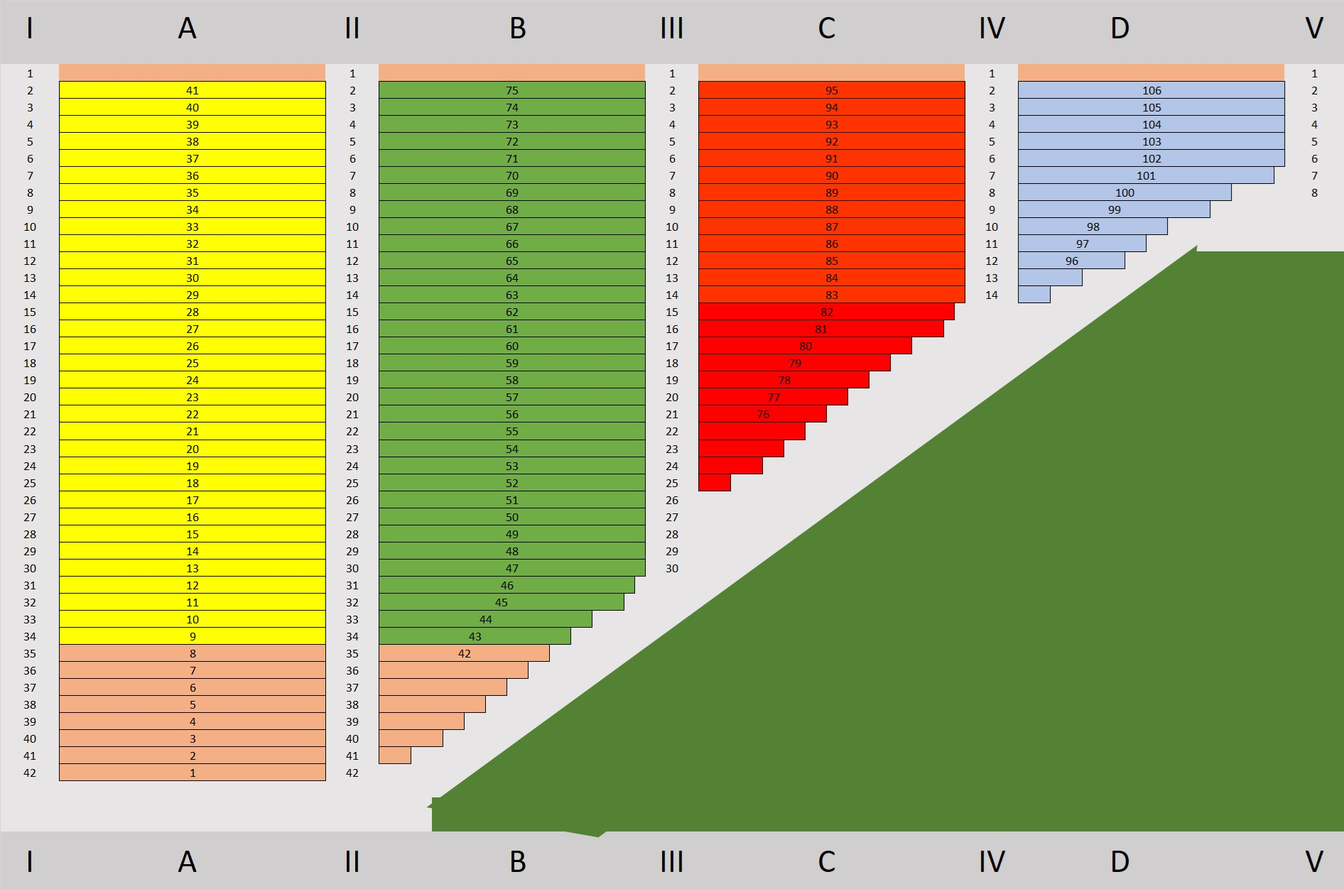
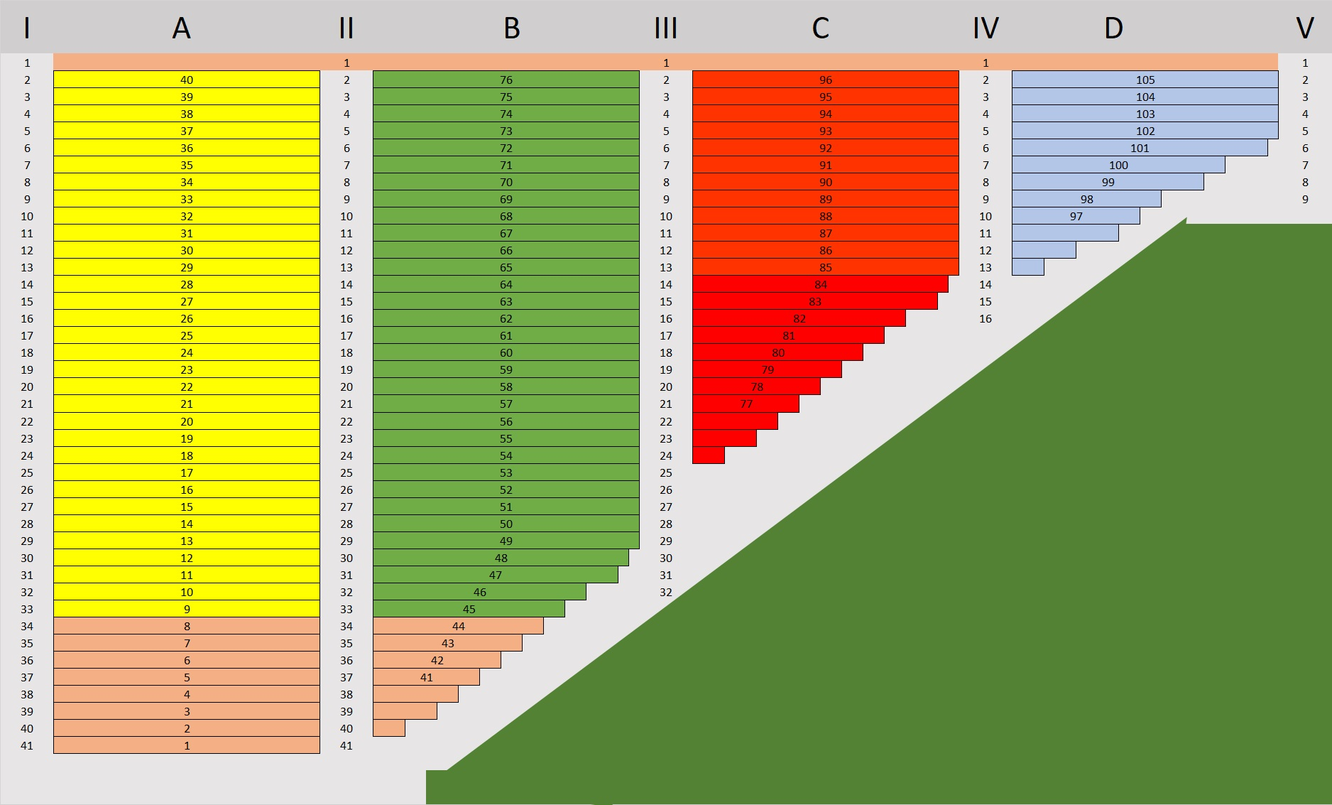
Update met Voedselbos toevoeging

diff --git a/kaartshow Voedselbos.html b/kaartshow Voedselbos.html
@@ -1,0 +1,345 @@
+<!DOCTYPE html>
+<html lang="en">
+<head>
+    <meta charset="UTF-8">
+    <meta name="viewport" content="width=device-width, initial-scale=1.0">
+    <title>Voedselbos Noaberboeren</title>
+    <style>
+        /* Stijlen voor de kaartcontainer */
+        .kaart-container {
+            position: relative;
+            width: 1000px; /* Pas aan naar wens */
+            height: 800px; /* Pas aan naar wens */
+            margin: 0 auto;
+            border: 1px solid #ccc;
+            background-image: url('Voedselbos 240218.jpg'); /* URL naar de geconverteerde afbeelding */
+            background-size: cover;
+            background-repeat: no-repeat;
+        }
+        
+        /* Stijlen voor markeringspunten */
+        .marker {
+            position: absolute;
+            width: 13px;
+            height: 13px;
+            background-color: #000; /* standaardkleur */
+            border-radius: 50%; /* Maakt de marker een cirkel */
+            cursor: pointer; /* Wijzig de cursor naar een handje om aan te geven dat het punt klikbaar is */
+            display: flex;
+            justify-content: center;
+            align-items: center;
+            font-size: 6px;
+            color: white; /* kleur van de tekst */
+		text-decoration: none; /* geen onderstreping van de link */
+        }
+
+.marker a {
+    color: white; /* kleur van de tekst */
+    text-decoration: none; /* geen onderstreping van de link */
+}
+
+        .marker.red {
+    background-color: red;
+	color: white; /* kleur van de tekst */
+    text-decoration: none; /* geen onderstreping van de link */
+}
+
+	.marker.blue {
+    background-color: blue;
+	color: white; /* kleur van de tekst */
+    text-decoration: none; /* geen onderstreping van de link */
+}
+	.marker.green {
+    background-color: green;
+	color: white; /* kleur van de tekst */
+    text-decoration: none; /* geen onderstreping van de link */
+}
+
+
+
+        /* Stijlen voor tooltips */
+        .tooltip {
+            position: absolute;
+            background-color: rgba(0, 0, 0, 0.7);
+            color: white;
+            padding: 5px;
+            border-radius: 3px;
+            pointer-events: none; /* Voorkomt dat de tooltip zelf wordt aangeklikt */
+            opacity: 0; /* Verberg de tooltip standaard */
+            transition: opacity 0.3s ease; /* Voeg een vloeiende overgang toe bij het tonen/verbergen van de tooltip */
+            z-index: 1000; /* Zorg ervoor dat de tooltip bovenaan ligt */
+        }
+        
+        /* Stijl voor de tooltippijl */
+        .tooltip::before {
+            content: "";
+            position: absolute;
+            border-style: solid;
+            border-width: 5px 5px 0 5px;
+            border-color: rgba(0, 0, 0, 0.7) transparent transparent transparent;
+            left: 50%;
+            bottom: -5px;
+            transform: translateX(-50%); /* Plaats de pijl in het midden van de tooltip */
+        }
+
+        /* Stijlen voor de link binnen de tooltip */
+        .tooltip-link {
+            color: white;
+            text-decoration: underline;
+            pointer-events: auto; /* Zorg ervoor dat de link klikbaar is */
+            display: block; /* Zorgt ervoor dat de link de hele breedte van de tooltip inneemt */
+            margin-top: 5px; /* Voegt ruimte toe tussen de tekst en de link */
+        }
+/* Stijl voor de knoppen */
+.button {
+  background-color: #9F4522; /* Achtergrondkleur van de knop lichtbruin */
+  color: white; /* Tekstkleur van de knop */
+  padding: 10px 20px; /* Ruimte rond de tekst in de knop */
+  border: none; /* Geen rand om de knop */
+  border-radius: 5px; /* Afgeronde hoeken voor een betere uitstraling */
+  cursor: pointer; /* Cursor veranderen in een handje bij hover */
+	margin-bottom: 20px; /* Ondermarge om de knoppen te verplaatsen */
+}
+
+/* Stijl voor de knoppen bij hover */
+.button:hover {
+  background-color: #804a34; /* Achtergrondkleur van de knop bij hover donkerder bruin */
+}
+
+
+
+    </style>
+</head>
+<body>
+
+    <!-- Kaartcontainer -->
+    <div class="kaart-container">
+
+<!-- Knoppen bovenaan de pagina -->
+<button class="button"  onclick="window.location.href = 'index.html';">Aaftink</button>
+<button class="button"  onclick="window.location.href = 'kaartshow Leem.html';">Leem</button>
+<button class="button"  onclick="window.location.href = 'kaartshow Es.html';">Es</button>
+<button class="button"  onclick="window.location.href = 'kaartshow Fruit.html';">Fruit</button>
+<button class="button"  onclick="window.location.href = 'https://noaberboeren.nl/';">Noaberboeren Home</button>
+
+
+
+
+
+
+
+
+<!-- VOEDSELBOS -->
+       
+         <!-- Markeringspunt 	A1	 -->	<div class="marker" style="left: 	30.5000%	; top: 	18.0000%	;" data-tooltip="	Cornus Mas, Gele Kornoelje	" data-link="	boomlink1.htm	">	A1	  </div>
+        <!-- Markeringspunt 	A2	 -->	<div class="marker" style="left: 	30.3714%	; top: 	20.3929%	;" data-tooltip="	Cornus Mas, Gele Kornoelje	" data-link="	A Cornus Mas Gele Kornoelje.htm	">	A2	  </div>
+        <!-- Markeringspunt 	A3	 -->	<div class="marker" style="left: 	30.2429%	; top: 	22.7857%	;" data-tooltip="	Cornus Mas, Gele Kornoelje	" data-link="	A Cornus Mas Gele Kornoelje.htm	">	A3	  </div>
+        <!-- Markeringspunt 	A4	 -->	<div class="marker" style="left: 	30.1143%	; top: 	25.1786%	;" data-tooltip="	Cornus Mas, Gele Kornoelje	" data-link="	A Cornus Mas Gele Kornoelje.htm	">	A4	  </div>
+        <!-- Markeringspunt 	A5	 -->	<div class="marker" style="left: 	29.9857%	; top: 	27.5714%	;" data-tooltip="	Cornus Mas, Gele Kornoelje	" data-link="	A Cornus Mas Gele Kornoelje.htm	">	A5	  </div>
+        <!-- Markeringspunt 	A6	 -->	<div class="marker" style="left: 	29.8571%	; top: 	29.9643%	;" data-tooltip="	Cornus Mas, Gele Kornoelje	" data-link="	A Cornus Mas Gele Kornoelje.htm	">	A6	  </div>
+        <!-- Markeringspunt 	A7	 -->	<div class="marker" style="left: 	29.7286%	; top: 	32.3571%	;" data-tooltip="	Cornus Mas, Gele Kornoelje	" data-link="	A Cornus Mas Gele Kornoelje.htm	">	A7	  </div>
+        <!-- Markeringspunt 	A8	 -->	<div class="marker" style="left: 	29.6000%	; top: 	34.7500%	;" data-tooltip="	Cornus Mas, Gele Kornoelje	" data-link="	A Cornus Mas Gele Kornoelje.htm	">	A8	  </div>
+        <!-- Markeringspunt 	A9	 -->	<div class="marker" style="left: 	29.4714%	; top: 	37.1429%	;" data-tooltip="	Cornus Mas, Gele Kornoelje	" data-link="	A Cornus Mas Gele Kornoelje.htm	">	A9	  </div>
+        <!-- Markeringspunt 	A10	 -->	<div class="marker" style="left: 	29.3429%	; top: 	39.5357%	;" data-tooltip="	Cornus Mas, Gele Kornoelje	" data-link="	A Cornus Mas Gele Kornoelje.htm	">	A10	  </div>
+        <!-- Markeringspunt 	A11	 -->	<div class="marker" style="left: 	29.2143%	; top: 	41.9286%	;" data-tooltip="	Cornus Mas, Gele Kornoelje	" data-link="	A Cornus Mas Gele Kornoelje.htm	">	A11	  </div>
+        <!-- Markeringspunt 	A12	 -->	<div class="marker" style="left: 	29.0857%	; top: 	44.3214%	;" data-tooltip="	Cornus Mas, Gele Kornoelje	" data-link="	A Cornus Mas Gele Kornoelje.htm	">	A12	  </div>
+        <!-- Markeringspunt 	A13	 -->	<div class="marker" style="left: 	28.9571%	; top: 	46.7143%	;" data-tooltip="	Cornus Mas, Gele Kornoelje	" data-link="	A Cornus Mas Gele Kornoelje.htm	">	A13	  </div>
+        <!-- Markeringspunt 	A14	 -->	<div class="marker" style="left: 	28.8286%	; top: 	49.1071%	;" data-tooltip="	Cornus Mas, Gele Kornoelje	" data-link="	A Cornus Mas Gele Kornoelje.htm	">	A14	  </div>
+        <!-- Markeringspunt 	A15	 -->	<div class="marker" style="left: 	28.7000%	; top: 	51.5000%	;" data-tooltip="	Cornus Mas, Gele Kornoelje	" data-link="	A Cornus Mas Gele Kornoelje.htm	">	A15	  </div>
+        <!-- Markeringspunt 	B16	 -->	<div class="marker" style="left: 	33.0000%	; top: 	39.0000%	;" data-tooltip="	Prunus Armeniaca, Abrikozenboom Tros Oranje	" data-link="	B Prunus Armeniaca Abrikozenboom Tros Oranje.htm	">	B16	  </div>
+        <!-- Markeringspunt 	B17	 -->	<div class="marker" style="left: 	32.0000%	; top: 	50.0000%	;" data-tooltip="	Prunus Armeniaca, Abrikozenboom Tros Oranje	" data-link="	B Prunus Armeniaca Abrikozenboom Tros Oranje.htm	">	B17	  </div>
+        <!-- Markeringspunt 	C18	 -->	<div class="marker" style="left: 	32.0000%	; top: 	19.0000%	;" data-tooltip="	Toona Sinensis, Uiensoepboom	" data-link="	C Toona Sinensis Uiensoepboom.htm	">	C18	  </div>
+        <!-- Markeringspunt 	C19	 -->	<div class="marker" style="left: 	32.5000%	; top: 	26.0000%	;" data-tooltip="	Toona Sinensis, Uiensoepboom	" data-link="	C Toona Sinensis Uiensoepboom.htm	">	C19	  </div>
+        <!-- Markeringspunt 	D20	 -->	<div class="marker" style="left: 	34.0000%	; top: 	19.0000%	;" data-tooltip="	Sambucus Nigra, Vlier	" data-link="	D Sambucus Nigra Vlier.htm	">	D20	  </div>
+        <!-- Markeringspunt 	D21	 -->	<div class="marker" style="left: 	40.0000%	; top: 	18.0000%	;" data-tooltip="	Sambucus Nigra, Vlier	" data-link="	D Sambucus Nigra Vlier.htm	">	D21	  </div>
+        <!-- Markeringspunt 	D22	 -->	<div class="marker" style="left: 	48.0000%	; top: 	18.0000%	;" data-tooltip="	Sambucus Nigra, Vlier	" data-link="	D Sambucus Nigra Vlier.htm	">	D22	  </div>
+        <!-- Markeringspunt 	D23	 -->	<div class="marker" style="left: 	34.0000%	; top: 	30.0000%	;" data-tooltip="	Sambucus Nigra, Vlier	" data-link="	D Sambucus Nigra Vlier.htm	">	D23	  </div>
+        <!-- Markeringspunt 	D24	 -->	<div class="marker" style="left: 	34.0000%	; top: 	49.0000%	;" data-tooltip="	Sambucus Nigra, Vlier	" data-link="	D Sambucus Nigra Vlier.htm	">	D24	  </div>
+        <!-- Markeringspunt 	E25	 -->	<div class="marker" style="left: 	33.0000%	; top: 	16.0000%	;" data-tooltip="	Rubus Idaeus, Framboos	" data-link="	E Rubus Idaeus Framboos.htm	">	E25	  </div>
+        <!-- Markeringspunt 	E26	 -->	<div class="marker" style="left: 	34.3026%	; top: 	15.9035%	;" data-tooltip="	Rubus Idaeus, Framboos	" data-link="	E Rubus Idaeus Framboos.htm	">	E26	  </div>
+        <!-- Markeringspunt 	E27	 -->	<div class="marker" style="left: 	35.6053%	; top: 	15.8070%	;" data-tooltip="	Rubus Idaeus, Framboos	" data-link="	E Rubus Idaeus Framboos.htm	">	E27	  </div>
+        <!-- Markeringspunt 	E28	 -->	<div class="marker" style="left: 	36.9079%	; top: 	15.7105%	;" data-tooltip="	Rubus Idaeus, Framboos	" data-link="	E Rubus Idaeus Framboos.htm	">	E28	  </div>
+        <!-- Markeringspunt 	E29	 -->	<div class="marker" style="left: 	38.2105%	; top: 	15.6140%	;" data-tooltip="	Rubus Idaeus, Framboos	" data-link="	E Rubus Idaeus Framboos.htm	">	E29	  </div>
+        <!-- Markeringspunt 	E30	 -->	<div class="marker" style="left: 	39.5132%	; top: 	15.5175%	;" data-tooltip="	Rubus Idaeus, Framboos	" data-link="	E Rubus Idaeus Framboos.htm	">	E30	  </div>
+        <!-- Markeringspunt 	E31	 -->	<div class="marker" style="left: 	40.8158%	; top: 	15.4211%	;" data-tooltip="	Rubus Idaeus, Framboos	" data-link="	E Rubus Idaeus Framboos.htm	">	E31	  </div>
+        <!-- Markeringspunt 	E32	 -->	<div class="marker" style="left: 	42.1184%	; top: 	15.3246%	;" data-tooltip="	Rubus Idaeus, Framboos	" data-link="	E Rubus Idaeus Framboos.htm	">	E32	  </div>
+        <!-- Markeringspunt 	E33	 -->	<div class="marker" style="left: 	43.4211%	; top: 	15.2281%	;" data-tooltip="	Rubus Idaeus, Framboos	" data-link="	E Rubus Idaeus Framboos.htm	">	E33	  </div>
+        <!-- Markeringspunt 	E34	 -->	<div class="marker" style="left: 	44.7237%	; top: 	15.1316%	;" data-tooltip="	Rubus Idaeus, Framboos	" data-link="	E Rubus Idaeus Framboos.htm	">	E34	  </div>
+        <!-- Markeringspunt 	E35	 -->	<div class="marker" style="left: 	46.0263%	; top: 	15.0351%	;" data-tooltip="	Rubus Idaeus, Framboos	" data-link="	E Rubus Idaeus Framboos.htm	">	E35	  </div>
+        <!-- Markeringspunt 	E36	 -->	<div class="marker" style="left: 	47.3289%	; top: 	14.9386%	;" data-tooltip="	Rubus Idaeus, Framboos	" data-link="	E Rubus Idaeus Framboos.htm	">	E36	  </div>
+        <!-- Markeringspunt 	E37	 -->	<div class="marker" style="left: 	48.6316%	; top: 	14.8421%	;" data-tooltip="	Rubus Idaeus, Framboos	" data-link="	E Rubus Idaeus Framboos.htm	">	E37	  </div>
+        <!-- Markeringspunt 	E38	 -->	<div class="marker" style="left: 	49.9342%	; top: 	14.7456%	;" data-tooltip="	Rubus Idaeus, Framboos	" data-link="	E Rubus Idaeus Framboos.htm	">	E38	  </div>
+        <!-- Markeringspunt 	E39	 -->	<div class="marker" style="left: 	51.2368%	; top: 	14.6491%	;" data-tooltip="	Rubus Idaeus, Framboos	" data-link="	E Rubus Idaeus Framboos.htm	">	E39	  </div>
+        <!-- Markeringspunt 	E40	 -->	<div class="marker" style="left: 	52.5395%	; top: 	14.5526%	;" data-tooltip="	Rubus Idaeus, Framboos	" data-link="	E Rubus Idaeus Framboos.htm	">	E40	  </div>
+        <!-- Markeringspunt 	E41	 -->	<div class="marker" style="left: 	53.8421%	; top: 	14.4561%	;" data-tooltip="	Rubus Idaeus, Framboos	" data-link="	E Rubus Idaeus Framboos.htm	">	E41	  </div>
+        <!-- Markeringspunt 	E42	 -->	<div class="marker" style="left: 	55.1447%	; top: 	14.3596%	;" data-tooltip="	Rubus Idaeus, Framboos	" data-link="	E Rubus Idaeus Framboos.htm	">	E42	  </div>
+        <!-- Markeringspunt 	E43	 -->	<div class="marker" style="left: 	56.4474%	; top: 	14.2632%	;" data-tooltip="	Rubus Idaeus, Framboos	" data-link="	E Rubus Idaeus Framboos.htm	">	E43	  </div>
+        <!-- Markeringspunt 	E44	 -->	<div class="marker" style="left: 	57.7500%	; top: 	14.1667%	;" data-tooltip="	Rubus Idaeus, Framboos	" data-link="	E Rubus Idaeus Framboos.htm	">	E44	  </div>
+        <!-- Markeringspunt 	E45	 -->	<div class="marker" style="left: 	57.0000%	; top: 	25.5000%	;" data-tooltip="	Rubus Idaeus, Framboos	" data-link="	E Rubus Idaeus Framboos.htm	">	E45	  </div>
+        <!-- Markeringspunt 	E46	 -->	<div class="marker" style="left: 	58.0000%	; top: 	25.0000%	;" data-tooltip="	Rubus Idaeus, Framboos	" data-link="	E Rubus Idaeus Framboos.htm	">	E46	  </div>
+        <!-- Markeringspunt 	E47	 -->	<div class="marker" style="left: 	59.0000%	; top: 	25.5000%	;" data-tooltip="	Rubus Idaeus, Framboos	" data-link="	E Rubus Idaeus Framboos.htm	">	E47	  </div>
+        <!-- Markeringspunt 	E48	 -->	<div class="marker" style="left: 	58.5000%	; top: 	26.5000%	;" data-tooltip="	Rubus Idaeus, Framboos	" data-link="	E Rubus Idaeus Framboos.htm	">	E48	  </div>
+        <!-- Markeringspunt 	E49	 -->	<div class="marker" style="left: 	57.5000%	; top: 	27.0000%	;" data-tooltip="	Rubus Idaeus, Framboos	" data-link="	E Rubus Idaeus Framboos.htm	">	E49	  </div>
+        <!-- Markeringspunt 	F50	 -->	<div class="marker" style="left: 	10.0000%	; top: 	29.3929%	;" data-tooltip="	Corylus, Hazelnoot	" data-link="	F Corylus Hazelnoot.htm	">	F50	  </div>
+        <!-- Markeringspunt 	F51	 -->	<div class="marker" style="left: 	36.0000%	; top: 	51.5000%	;" data-tooltip="	Corylus, Hazelnoot	" data-link="	F Corylus Hazelnoot.htm	">	F51	  </div>
+        <!-- Markeringspunt 	F52	 -->	<div class="marker" style="left: 	38.0000%	; top: 	31.0000%	;" data-tooltip="	Corylus, Hazelnoot	" data-link="	F Corylus Hazelnoot.htm	">	F52	  </div>
+        <!-- Markeringspunt 	F53	 -->	<div class="marker" style="left: 	40.0000%	; top: 	46.0000%	;" data-tooltip="	Corylus, Hazelnoot	" data-link="	F Corylus Hazelnoot.htm	">	F53	  </div>
+        <!-- Markeringspunt 	F54	 -->	<div class="marker" style="left: 	52.0000%	; top: 	49.0000%	;" data-tooltip="	Corylus, Hazelnoot	" data-link="	F Corylus Hazelnoot.htm	">	F54	  </div>
+        <!-- Markeringspunt 	F55	 -->	<div class="marker" style="left: 	57.0000%	; top: 	40.0000%	;" data-tooltip="	Corylus, Hazelnoot	" data-link="	F Corylus Hazelnoot.htm	">	F55	  </div>
+        <!-- Markeringspunt 	F56	 -->	<div class="marker" style="left: 	58.0000%	; top: 	49.0000%	;" data-tooltip="	Corylus, Hazelnoot	" data-link="	F Corylus Hazelnoot.htm	">	F56	  </div>
+        <!-- Markeringspunt 	F57	 -->	<div class="marker" style="left: 	72.0000%	; top: 	40.0000%	;" data-tooltip="	Corylus, Hazelnoot	" data-link="	F Corylus Hazelnoot.htm	">	F57	  </div>
+        <!-- Markeringspunt 	F58	 -->	<div class="marker" style="left: 	76.0000%	; top: 	29.0000%	;" data-tooltip="	Corylus, Hazelnoot	" data-link="	F Corylus Hazelnoot.htm	">	F58	  </div>
+        <!-- Markeringspunt 	G59	 -->	<div class="marker" style="left: 	36.5000%	; top: 	20.5000%	;" data-tooltip="	Lonicera  Caerulea, Honingbes	" data-link="	G Lonicera  Caerulea Honingbes.htm	">	G59	  </div>
+        <!-- Markeringspunt 	G60	 -->	<div class="marker" style="left: 	37.5000%	; top: 	20.0000%	;" data-tooltip="	Lonicera  Caerulea, Honingbes	" data-link="	G Lonicera  Caerulea Honingbes.htm	">	G60	  </div>
+        <!-- Markeringspunt 	G61	 -->	<div class="marker" style="left: 	38.0000%	; top: 	21.0000%	;" data-tooltip="	Lonicera  Caerulea, Honingbes	" data-link="	G Lonicera  Caerulea Honingbes.htm	">	G61	  </div>
+        <!-- Markeringspunt 	G62	 -->	<div class="marker" style="left: 	37.5000%	; top: 	22.0000%	;" data-tooltip="	Lonicera  Caerulea, Honingbes	" data-link="	G Lonicera  Caerulea Honingbes.htm	">	G62	  </div>
+        <!-- Markeringspunt 	G63	 -->	<div class="marker" style="left: 	36.5000%	; top: 	21.5000%	;" data-tooltip="	Lonicera  Caerulea, Honingbes	" data-link="	G Lonicera  Caerulea Honingbes.htm	">	G63	  </div>
+        <!-- Markeringspunt 	G64	 -->	<div class="marker" style="left: 	71.0000%	; top: 	50.5000%	;" data-tooltip="	Lonicera  Caerulea, Honingbes	" data-link="	G Lonicera  Caerulea Honingbes.htm	">	G64	  </div>
+        <!-- Markeringspunt 	G65	 -->	<div class="marker" style="left: 	73.0000%	; top: 	50.5000%	;" data-tooltip="	Lonicera  Caerulea, Honingbes	" data-link="	G Lonicera  Caerulea Honingbes.htm	">	G65	  </div>
+        <!-- Markeringspunt 	G66	 -->	<div class="marker" style="left: 	72.0000%	; top: 	51.8000%	;" data-tooltip="	Lonicera  Caerulea, Honingbes	" data-link="	G Lonicera  Caerulea Honingbes.htm	">	G66	  </div>
+        <!-- Markeringspunt 	H67	 -->	<div class="marker" style="left: 	35.6000%	; top: 	18.0000%	;" data-tooltip="	Juglans Regia, Walnoot	" data-link="	H Juglans Regia Walnoot.htm	">	H67	  </div>
+        <!-- Markeringspunt 	H68	 -->	<div class="marker" style="left: 	44.0000%	; top: 	39.0000%	;" data-tooltip="	Juglans Regia, Walnoot	" data-link="	H Juglans Regia Walnoot.htm	">	H68	  </div>
+        <!-- Markeringspunt 	H69	 -->	<div class="marker" style="left: 	61.0000%	; top: 	25.0000%	;" data-tooltip="	Juglans Regia, Walnoot	" data-link="	H Juglans Regia Walnoot.htm	">	H69	  </div>
+        <!-- Markeringspunt 	H70	 -->	<div class="marker" style="left: 	68.5000%	; top: 	49.0000%	;" data-tooltip="	Juglans Regia, Walnoot	" data-link="	H Juglans Regia Walnoot.htm	">	H70	  </div>
+        <!-- Markeringspunt 	H71	 -->	<div class="marker" style="left: 	78.0000%	; top: 	19.0000%	;" data-tooltip="	Juglans Regia, Walnoot	" data-link="	H Juglans Regia Walnoot.htm	">	H71	  </div>
+        <!-- Markeringspunt 	I72	 -->	<div class="marker" style="left: 	42.2000%	; top: 	18.0000%	;" data-tooltip="	Amelanchier, Krentenboom	" data-link="	I Amelanchier Krentenboom.htm	">	I72	  </div>
+        <!-- Markeringspunt 	I73	 -->	<div class="marker" style="left: 	51.0000%	; top: 	17.2000%	;" data-tooltip="	Amelanchier, Krentenboom	" data-link="	I Amelanchier Krentenboom.htm	">	I73	  </div>
+        <!-- Markeringspunt 	I74	 -->	<div class="marker" style="left: 	33.5000%	; top: 	23.0000%	;" data-tooltip="	Amelanchier, Krentenboom	" data-link="	I Amelanchier Krentenboom.htm	">	I74	  </div>
+        <!-- Markeringspunt 	I75	 -->	<div class="marker" style="left: 	39.2000%	; top: 	23.0000%	;" data-tooltip="	Amelanchier, Krentenboom	" data-link="	I Amelanchier Krentenboom.htm	">	I75	  </div>
+        <!-- Markeringspunt 	J76	 -->	<div class="marker" style="left: 	39.0000%	; top: 	53.9000%	;" data-tooltip="	Alnus glutinosa, Zwarte Els	" data-link="	J Alnus glutinosa Zwarte Els.htm	">	J76	  </div>
+        <!-- Markeringspunt 	J77	 -->	<div class="marker" style="left: 	43.0000%	; top: 	54.1750%	;" data-tooltip="	Alnus glutinosa, Zwarte Els	" data-link="	J Alnus glutinosa Zwarte Els.htm	">	J77	  </div>
+        <!-- Markeringspunt 	J78	 -->	<div class="marker" style="left: 	47.0000%	; top: 	54.4500%	;" data-tooltip="	Alnus glutinosa, Zwarte Els	" data-link="	J Alnus glutinosa Zwarte Els.htm	">	J78	  </div>
+        <!-- Markeringspunt 	J79	 -->	<div class="marker" style="left: 	51.0000%	; top: 	54.7250%	;" data-tooltip="	Alnus glutinosa, Zwarte Els	" data-link="	J Alnus glutinosa Zwarte Els.htm	">	J79	  </div>
+        <!-- Markeringspunt 	J80	 -->	<div class="marker" style="left: 	55.0000%	; top: 	55.0000%	;" data-tooltip="	Alnus glutinosa, Zwarte Els	" data-link="	J Alnus glutinosa Zwarte Els.htm	">	J80	  </div>
+        <!-- Markeringspunt 	K81	 -->	<div class="marker" style="left: 	48.0000%	; top: 	38.0000%	;" data-tooltip="	Rhamnus Frangula, Vuilboom	" data-link="	K Rhamnus Frangula Vuilboom.htm	">	K81	  </div>
+        <!-- Markeringspunt 	K82	 -->	<div class="marker" style="left: 	51.0000%	; top: 	33.0000%	;" data-tooltip="	Rhamnus Frangula, Vuilboom	" data-link="	K Rhamnus Frangula Vuilboom.htm	">	K82	  </div>
+        <!-- Markeringspunt 	K83	 -->	<div class="marker" style="left: 	51.0000%	; top: 	40.0000%	;" data-tooltip="	Rhamnus Frangula, Vuilboom	" data-link="	K Rhamnus Frangula Vuilboom.htm	">	K83	  </div>
+        <!-- Markeringspunt 	K84	 -->	<div class="marker" style="left: 	53.0000%	; top: 	23.0000%	;" data-tooltip="	Rhamnus Frangula, Vuilboom	" data-link="	K Rhamnus Frangula Vuilboom.htm	">	K84	  </div>
+        <!-- Markeringspunt 	K85	 -->	<div class="marker" style="left: 	55.0000%	; top: 	32.0000%	;" data-tooltip="	Rhamnus Frangula, Vuilboom	" data-link="	K Rhamnus Frangula Vuilboom.htm	">	K85	  </div>
+        <!-- Markeringspunt 	L86	 -->	<div class="marker" style="left: 	55.5000%	; top: 	35.5000%	;" data-tooltip="	Ficus Carica, Vijg	" data-link="	L Ficus Carica Vijg.htm	">	L86	  </div>
+        <!-- Markeringspunt 	L87	 -->	<div class="marker" style="left: 	55.0000%	; top: 	48.0000%	;" data-tooltip="	Ficus Carica, Vijg	" data-link="	L Ficus Carica Vijg.htm	">	L87	  </div>
+        <!-- Markeringspunt 	L88	 -->	<div class="marker" style="left: 	60.0000%	; top: 	41.3333%	;" data-tooltip="	Ficus Carica, Vijg	" data-link="	L Ficus Carica Vijg.htm	">	L88	  </div>
+        <!-- Markeringspunt 	L89	 -->	<div class="marker" style="left: 	65.0000%	; top: 	34.6667%	;" data-tooltip="	Ficus Carica, Vijg	" data-link="	L Ficus Carica Vijg.htm	">	L89	  </div>
+        <!-- Markeringspunt 	L90	 -->	<div class="marker" style="left: 	70.0000%	; top: 	28.0000%	;" data-tooltip="	Ficus Carica, Vijg	" data-link="	L Ficus Carica Vijg.htm	">	L90	  </div>
+        <!-- Markeringspunt 	M91	 -->	<div class="marker" style="left: 	60.0000%	; top: 	14.0000%	;" data-tooltip="	Morus Alba, Witte Moerbei	" data-link="	M Morus Alba Witte Moerbei.htm	">	M91	  </div>
+        <!-- Markeringspunt 	M92	 -->	<div class="marker" style="left: 	57.7500%	; top: 	16.0000%	;" data-tooltip="	Morus Alba, Witte Moerbei	" data-link="	M Morus Alba Witte Moerbei.htm	">	M92	  </div>
+        <!-- Markeringspunt 	M93	 -->	<div class="marker" style="left: 	36.0000%	; top: 	40.0000%	;" data-tooltip="	Morus Alba, Witte Moerbei	" data-link="	M Morus Alba Witte Moerbei.htm	">	M93	  </div>
+        <!-- Markeringspunt 	M94	 -->	<div class="marker" style="left: 	43.0000%	; top: 	33.0000%	;" data-tooltip="	Morus Alba, Witte Moerbei	" data-link="	M Morus Alba Witte Moerbei.htm	">	M94	  </div>
+        <!-- Markeringspunt 	M95	 -->	<div class="marker" style="left: 	60.0000%	; top: 	33.0000%	;" data-tooltip="	Morus Alba, Witte Moerbei	" data-link="	M Morus Alba Witte Moerbei.htm	">	M95	  </div>
+        <!-- Markeringspunt 	M96	 -->	<div class="marker" style="left: 	68.0000%	; top: 	38.0000%	;" data-tooltip="	Morus Alba, Witte Moerbei	" data-link="	M Morus Alba Witte Moerbei.htm	">	M96	  </div>
+        <!-- Markeringspunt 	M97	 -->	<div class="marker" style="left: 	10.0000%	; top: 	38.0000%	;" data-tooltip="	Morus Alba, Witte Moerbei	" data-link="	M Morus Alba Witte Moerbei.htm	">	M97	  </div>
+        <!-- Markeringspunt 	M98	 -->	<div class="marker" style="left: 	66.5000%	; top: 	25.0000%	;" data-tooltip="	Morus Alba, Witte Moerbei	" data-link="	M Morus Alba Witte Moerbei.htm	">	M98	  </div>
+        <!-- Markeringspunt 	M99	 -->	<div class="marker" style="left: 	78.0000%	; top: 	24.0000%	;" data-tooltip="	Morus Alba, Witte Moerbei	" data-link="	M Morus Alba Witte Moerbei.htm	">	M99	  </div>
+        <!-- Markeringspunt 	M100	 -->	<div class="marker" style="left: 	80.0000%	; top: 	30.0000%	;" data-tooltip="	Morus Alba, Witte Moerbei	" data-link="	M Morus Alba Witte Moerbei.htm	">	M100	  </div>
+        <!-- Markeringspunt 	N101	 -->	<div class="marker" style="left: 	62.0000%	; top: 	53.0000%	;" data-tooltip="	Mespilus Germanica, Mispel	" data-link="	N Mespilus Germanica Mispel.htm	">	N101	  </div>
+        <!-- Markeringspunt 	N102	 -->	<div class="marker" style="left: 	65.0000%	; top: 	53.0000%	;" data-tooltip="	Mespilus Germanica, Mispel	" data-link="	N Mespilus Germanica Mispel.htm	">	N102	  </div>
+        <!-- Markeringspunt 	N103	 -->	<div class="marker" style="left: 	75.0000%	; top: 	49.5000%	;" data-tooltip="	Mespilus Germanica, Mispel	" data-link="	N Mespilus Germanica Mispel.htm	">	N103	  </div>
+        <!-- Markeringspunt 	O104	 -->	<div class="marker" style="left: 	63.0000%	; top: 	13.7000%	;" data-tooltip="	Rosa rugosa, Japanse Bottelroos	" data-link="	O Rosa rugosa Japanse Bottelroos.htm	">	O104	  </div>
+        <!-- Markeringspunt 	O105	 -->	<div class="marker" style="left: 	65.2500%	; top: 	13.6250%	;" data-tooltip="	Rosa rugosa, Japanse Bottelroos	" data-link="	O Rosa rugosa Japanse Bottelroos.htm	">	O105	  </div>
+        <!-- Markeringspunt 	O106	 -->	<div class="marker" style="left: 	67.5000%	; top: 	13.5500%	;" data-tooltip="	Rosa rugosa, Japanse Bottelroos	" data-link="	O Rosa rugosa Japanse Bottelroos.htm	">	O106	  </div>
+        <!-- Markeringspunt 	O107	 -->	<div class="marker" style="left: 	69.7500%	; top: 	13.4750%	;" data-tooltip="	Rosa rugosa, Japanse Bottelroos	" data-link="	O Rosa rugosa Japanse Bottelroos.htm	">	O107	  </div>
+        <!-- Markeringspunt 	O108	 -->	<div class="marker" style="left: 	72.0000%	; top: 	13.4000%	;" data-tooltip="	Rosa rugosa, Japanse Bottelroos	" data-link="	O Rosa rugosa Japanse Bottelroos.htm	">	O108	  </div>
+        <!-- Markeringspunt 	P109	 -->	<div class="marker" style="left: 	42.0000%	; top: 	22.0000%	;" data-tooltip="	Prunus Spinoza, Sleedoorn	" data-link="	P Prunus Spinoza Sleedoorn.htm	">	P109	  </div>
+        <!-- Markeringspunt 	P110	 -->	<div class="marker" style="left: 	46.0000%	; top: 	24.0000%	;" data-tooltip="	Prunus Spinoza, Sleedoorn	" data-link="	P Prunus Spinoza Sleedoorn.htm	">	P110	  </div>
+        <!-- Markeringspunt 	P111	 -->	<div class="marker" style="left: 	50.0000%	; top: 	23.0000%	;" data-tooltip="	Prunus Spinoza, Sleedoorn	" data-link="	P Prunus Spinoza Sleedoorn.htm	">	P111	  </div>
+        <!-- Markeringspunt 	P112	 -->	<div class="marker" style="left: 	65.0000%	; top: 	18.0000%	;" data-tooltip="	Prunus Spinoza, Sleedoorn	" data-link="	P Prunus Spinoza Sleedoorn.htm	">	P112	  </div>
+        <!-- Markeringspunt 	P113	 -->	<div class="marker" style="left: 	68.0000%	; top: 	17.8000%	;" data-tooltip="	Prunus Spinoza, Sleedoorn	" data-link="	P Prunus Spinoza Sleedoorn.htm	">	P113	  </div>
+        <!-- Markeringspunt 	P114	 -->	<div class="marker" style="left: 	72.0000%	; top: 	17.7000%	;" data-tooltip="	Prunus Spinoza, Sleedoorn	" data-link="	P Prunus Spinoza Sleedoorn.htm	">	P114	  </div>
+        <!-- Markeringspunt 	P115	 -->	<div class="marker" style="left: 	70.0000%	; top: 	21.0000%	;" data-tooltip="	Prunus Spinoza, Sleedoorn	" data-link="	P Prunus Spinoza Sleedoorn.htm	">	P115	  </div>
+        <!-- Markeringspunt 	P116	 -->	<div class="marker" style="left: 	75.0000%	; top: 	25.0000%	;" data-tooltip="	Prunus Spinoza, Sleedoorn	" data-link="	P Prunus Spinoza Sleedoorn.htm	">	P116	  </div>
+        <!-- Markeringspunt 	Q117	 -->	<div class="marker" style="left: 	73.0000%	; top: 	30.0000%	;" data-tooltip="	Castanea Sativa, Tamme Kastanje	" data-link="	Q Castanea Sativa Tamme Kastanje.htm	">	Q117	  </div>
+        <!-- Markeringspunt 	Q118	 -->	<div class="marker" style="left: 	79.0000%	; top: 	40.0000%	;" data-tooltip="	Castanea Sativa, Tamme Kastanje	" data-link="	Q Castanea Sativa Tamme Kastanje.htm	">	Q118	  </div>
+        <!-- Markeringspunt 	R119	 -->	<div class="marker" style="left: 	75.9800%	; top: 	13.1750%	;" data-tooltip="	Chaenomeles japonica, Japanse Kwee	" data-link="	R Chaenomeles japonica Japanse Kwee.htm	">	R119	  </div>
+        <!-- Markeringspunt 	R120	 -->	<div class="marker" style="left: 	78.0440%	; top: 	13.0063%	;" data-tooltip="	Chaenomeles japonica, Japanse Kwee	" data-link="	R Chaenomeles japonica Japanse Kwee.htm	">	R120	  </div>
+        <!-- Markeringspunt 	R121	 -->	<div class="marker" style="left: 	80.1080%	; top: 	12.8375%	;" data-tooltip="	Chaenomeles japonica, Japanse Kwee	" data-link="	R Chaenomeles japonica Japanse Kwee.htm	">	R121	  </div>
+        <!-- Markeringspunt 	R122	 -->	<div class="marker" style="left: 	82.1720%	; top: 	12.6688%	;" data-tooltip="	Chaenomeles japonica, Japanse Kwee	" data-link="	R Chaenomeles japonica Japanse Kwee.htm	">	R122	  </div>
+        <!-- Markeringspunt 	R123	 -->	<div class="marker" style="left: 	84.2360%	; top: 	12.5000%	;" data-tooltip="	Chaenomeles japonica, Japanse Kwee	" data-link="	R Chaenomeles japonica Japanse Kwee.htm	">	R123	  </div>
+        <!-- Markeringspunt 	R124	 -->	<div class="marker" style="left: 	86.3000%	; top: 	13.5000%	;" data-tooltip="	Chaenomeles japonica, Japanse Kwee	" data-link="	R Chaenomeles japonica Japanse Kwee.htm	">	R124	  </div>
+        <!-- Markeringspunt 	R125	 -->	<div class="marker" style="left: 	84.2360%	; top: 	16.0000%	;" data-tooltip="	Chaenomeles japonica, Japanse Kwee	" data-link="	R Chaenomeles japonica Japanse Kwee.htm	">	R125	  </div>
+        <!-- Markeringspunt 	R126	 -->	<div class="marker" style="left: 	88.0000%	; top: 	16.5000%	;" data-tooltip="	Chaenomeles japonica, Japanse Kwee	" data-link="	R Chaenomeles japonica Japanse Kwee.htm	">	R126	  </div>
+        <!-- Markeringspunt 	R127	 -->	<div class="marker" style="left: 	88.0000%	; top: 	20.2500%	;" data-tooltip="	Chaenomeles japonica, Japanse Kwee	" data-link="	R Chaenomeles japonica Japanse Kwee.htm	">	R127	  </div>
+        <!-- Markeringspunt 	R128	 -->	<div class="marker" style="left: 	88.0000%	; top: 	24.0000%	;" data-tooltip="	Chaenomeles japonica, Japanse Kwee	" data-link="	R Chaenomeles japonica Japanse Kwee.htm	">	R128	  </div>
+        <!-- Markeringspunt 	S129	 -->	<div class="marker" style="left: 	60.3000%	; top: 	20.2500%	;" data-tooltip="	Elaeagnus umbellatus, Olijfwilg	" data-link="	S Elaeagnus umbellatus Olijfwilg.htm	">	S129	  </div>
+        <!-- Markeringspunt 	S130	 -->	<div class="marker" style="left: 	83.0000%	; top: 	20.2500%	;" data-tooltip="	Elaeagnus umbellatus, Olijfwilg	" data-link="	S Elaeagnus umbellatus Olijfwilg.htm	">	S130	  </div>
+        <!-- Markeringspunt 	S131	 -->	<div class="marker" style="left: 	82.0000%	; top: 	24.0000%	;" data-tooltip="	Elaeagnus umbellatus, Olijfwilg	" data-link="	S Elaeagnus umbellatus Olijfwilg.htm	">	S131	  </div>
+        <!-- Markeringspunt 	S132	 -->	<div class="marker" style="left: 	83.0000%	; top: 	29.0000%	;" data-tooltip="	Elaeagnus umbellatus, Olijfwilg	" data-link="	S Elaeagnus umbellatus Olijfwilg.htm	">	S132	  </div>
+        <!-- Markeringspunt 	S133	 -->	<div class="marker" style="left: 	83.0000%	; top: 	33.0000%	;" data-tooltip="	Elaeagnus umbellatus, Olijfwilg	" data-link="	S Elaeagnus umbellatus Olijfwilg.htm	">	S133	  </div>
+        <!-- Markeringspunt 	S134	 -->	<div class="marker" style="left: 	87.8000%	; top: 	35.0000%	;" data-tooltip="	Elaeagnus umbellatus, Olijfwilg	" data-link="	S Elaeagnus umbellatus Olijfwilg.htm	">	S134	  </div>
+        <!-- Markeringspunt 	T135	 -->	<div class="marker" style="left: 	88.0000%	; top: 	39.5000%	;" data-tooltip="	Euonymus europaeus, Kardinaalsmuts	" data-link="	T Euonymus europaeus Kardinaalsmuts.htm	">	T135	  </div>
+        <!-- Markeringspunt 	T136	 -->	<div class="marker" style="left: 	88.0000%	; top: 	43.6250%	;" data-tooltip="	Euonymus europaeus, Kardinaalsmuts	" data-link="	T Euonymus europaeus Kardinaalsmuts.htm	">	T136	  </div>
+        <!-- Markeringspunt 	T137	 -->	<div class="marker" style="left: 	88.0000%	; top: 	47.7500%	;" data-tooltip="	Euonymus europaeus, Kardinaalsmuts	" data-link="	T Euonymus europaeus Kardinaalsmuts.htm	">	T137	  </div>
+        <!-- Markeringspunt 	T138	 -->	<div class="marker" style="left: 	88.0000%	; top: 	51.8750%	;" data-tooltip="	Euonymus europaeus, Kardinaalsmuts	" data-link="	T Euonymus europaeus Kardinaalsmuts.htm	">	T138	  </div>
+        <!-- Markeringspunt 	T139	 -->	<div class="marker" style="left: 	88.0000%	; top: 	56.0000%	;" data-tooltip="	Euonymus europaeus, Kardinaalsmuts	" data-link="	T Euonymus europaeus Kardinaalsmuts.htm	">	T139	  </div>
+        <!-- Markeringspunt 	U140	 -->	<div class="marker" style="left: 	78.0000%	; top: 	48.0000%	;" data-tooltip="	Crataegus monogyna, Meidoorn	" data-link="	U Crataegus monogyna Meidoorn.htm	">	U140	  </div>
+        <!-- Markeringspunt 	U141	 -->	<div class="marker" style="left: 	78.0000%	; top: 	51.0000%	;" data-tooltip="	Crataegus monogyna, Meidoorn	" data-link="	U Crataegus monogyna Meidoorn.htm	">	U141	  </div>
+        <!-- Markeringspunt 	U142	 -->	<div class="marker" style="left: 	80.0000%	; top: 	51.0000%	;" data-tooltip="	Crataegus monogyna, Meidoorn	" data-link="	U Crataegus monogyna Meidoorn.htm	">	U142	  </div>
+        <!-- Markeringspunt 	U143	 -->	<div class="marker" style="left: 	78.0000%	; top: 	54.0000%	;" data-tooltip="	Crataegus monogyna, Meidoorn	" data-link="	U Crataegus monogyna Meidoorn.htm	">	U143	  </div>
+        <!-- Markeringspunt 	U144	 -->	<div class="marker" style="left: 	80.0000%	; top: 	54.0000%	;" data-tooltip="	Crataegus monogyna, Meidoorn	" data-link="	U Crataegus monogyna Meidoorn.htm	">	U144	  </div>
+
+
+
+
+
+  
+
+
+      <!-- Je kunt meer markeringspunten toevoegen door meer div-elementen toe te voegen met de class "marker" en verschillende "left" en "top" waarden -->
+        
+        <!-- Tooltip -->
+        <div class="tooltip" id="tooltip">
+            <span id="tooltipLocation" class="tooltip-location"></span>
+            <a id="tooltipLink" class="tooltip-link" href="#" target="_blank"></a>
+        </div>
+    </div>
+
+
+
+  
+<!-- JavaScript voor tooltips -->
+    <script>
+        document.addEventListener('DOMContentLoaded', function() {
+            const markers = document.querySelectorAll('.marker');
+            const tooltip = document.getElementById('tooltip');
+            const tooltipLink = document.getElementById('tooltipLink');
+            const tooltipLocation = document.getElementById('tooltipLocation');
+            let tooltipTimeout;
+
+            markers.forEach(marker => {
+                marker.addEventListener('mouseenter', (e) => {
+                    const markerRect = marker.getBoundingClientRect();
+
+                    tooltip.style.top = `${marker.offsetTop}px`;
+                    tooltip.style.left = `${marker.offsetLeft + marker.offsetWidth}px`;
+                    tooltip.style.opacity = 1;
+
+                    tooltipLocation.textContent = marker.getAttribute('data-tooltip');
+
+                    // Plaats de link naast de tooltip
+                    tooltipLink.style.top = `${marker.offsetTop}px`;
+                    tooltipLink.style.left = `${marker.offsetLeft + marker.offsetWidth + tooltip.offsetWidth}px`;
+                    tooltipLink.href = marker.getAttribute('data-link'); // Stel de link van de tooltip in op basis van de data-link attribuut van de marker
+                    clearTimeout(tooltipTimeout); // Stop de timer voor het verbergen van de tooltip als de muis weer op de marker komt
+                });
+
+                marker.addEventListener('mouseleave', () => {
+                    tooltipTimeout = setTimeout(() => {
+                        tooltip.style.opacity = 0;
+                    }, 1000); // Verberg de tooltip na 1 seconde
+                });
+            });
+
+            // Houd de tooltip zichtbaar als de muis zich binnen de tooltip bevindt
+            tooltip.addEventListener('mouseenter', () => {
+                clearTimeout(tooltipTimeout); // Stop de timer voor het verbergen van de tooltip
+            });
+
+            // Verberg de tooltip als de muis de tooltip verlaat
+            tooltip.addEventListener('mouseleave', () => {
+                tooltipTimeout = setTimeout(() => {
+                    tooltip.style.opacity = 0;
+                }, 1000); // Verberg de tooltip na 1 seconde
+            });
+        });
+    </script>
+</body>
+</html>

diff --git a/kaartshow Fruit.html b/kaartshow Fruit.html
@@ -499,6 +499,8 @@
 
 
 
+   <!-- Markeringspunt 	Voedselbos	 -->	
+<div class="marker green" style="left: 	54%	; top: 	18.5%	;" data-tooltip="	Voedselbos  	">   <a href="kaartshow Voedselbos.html">	Voedselbos	</a>   </div>
 
 
 
